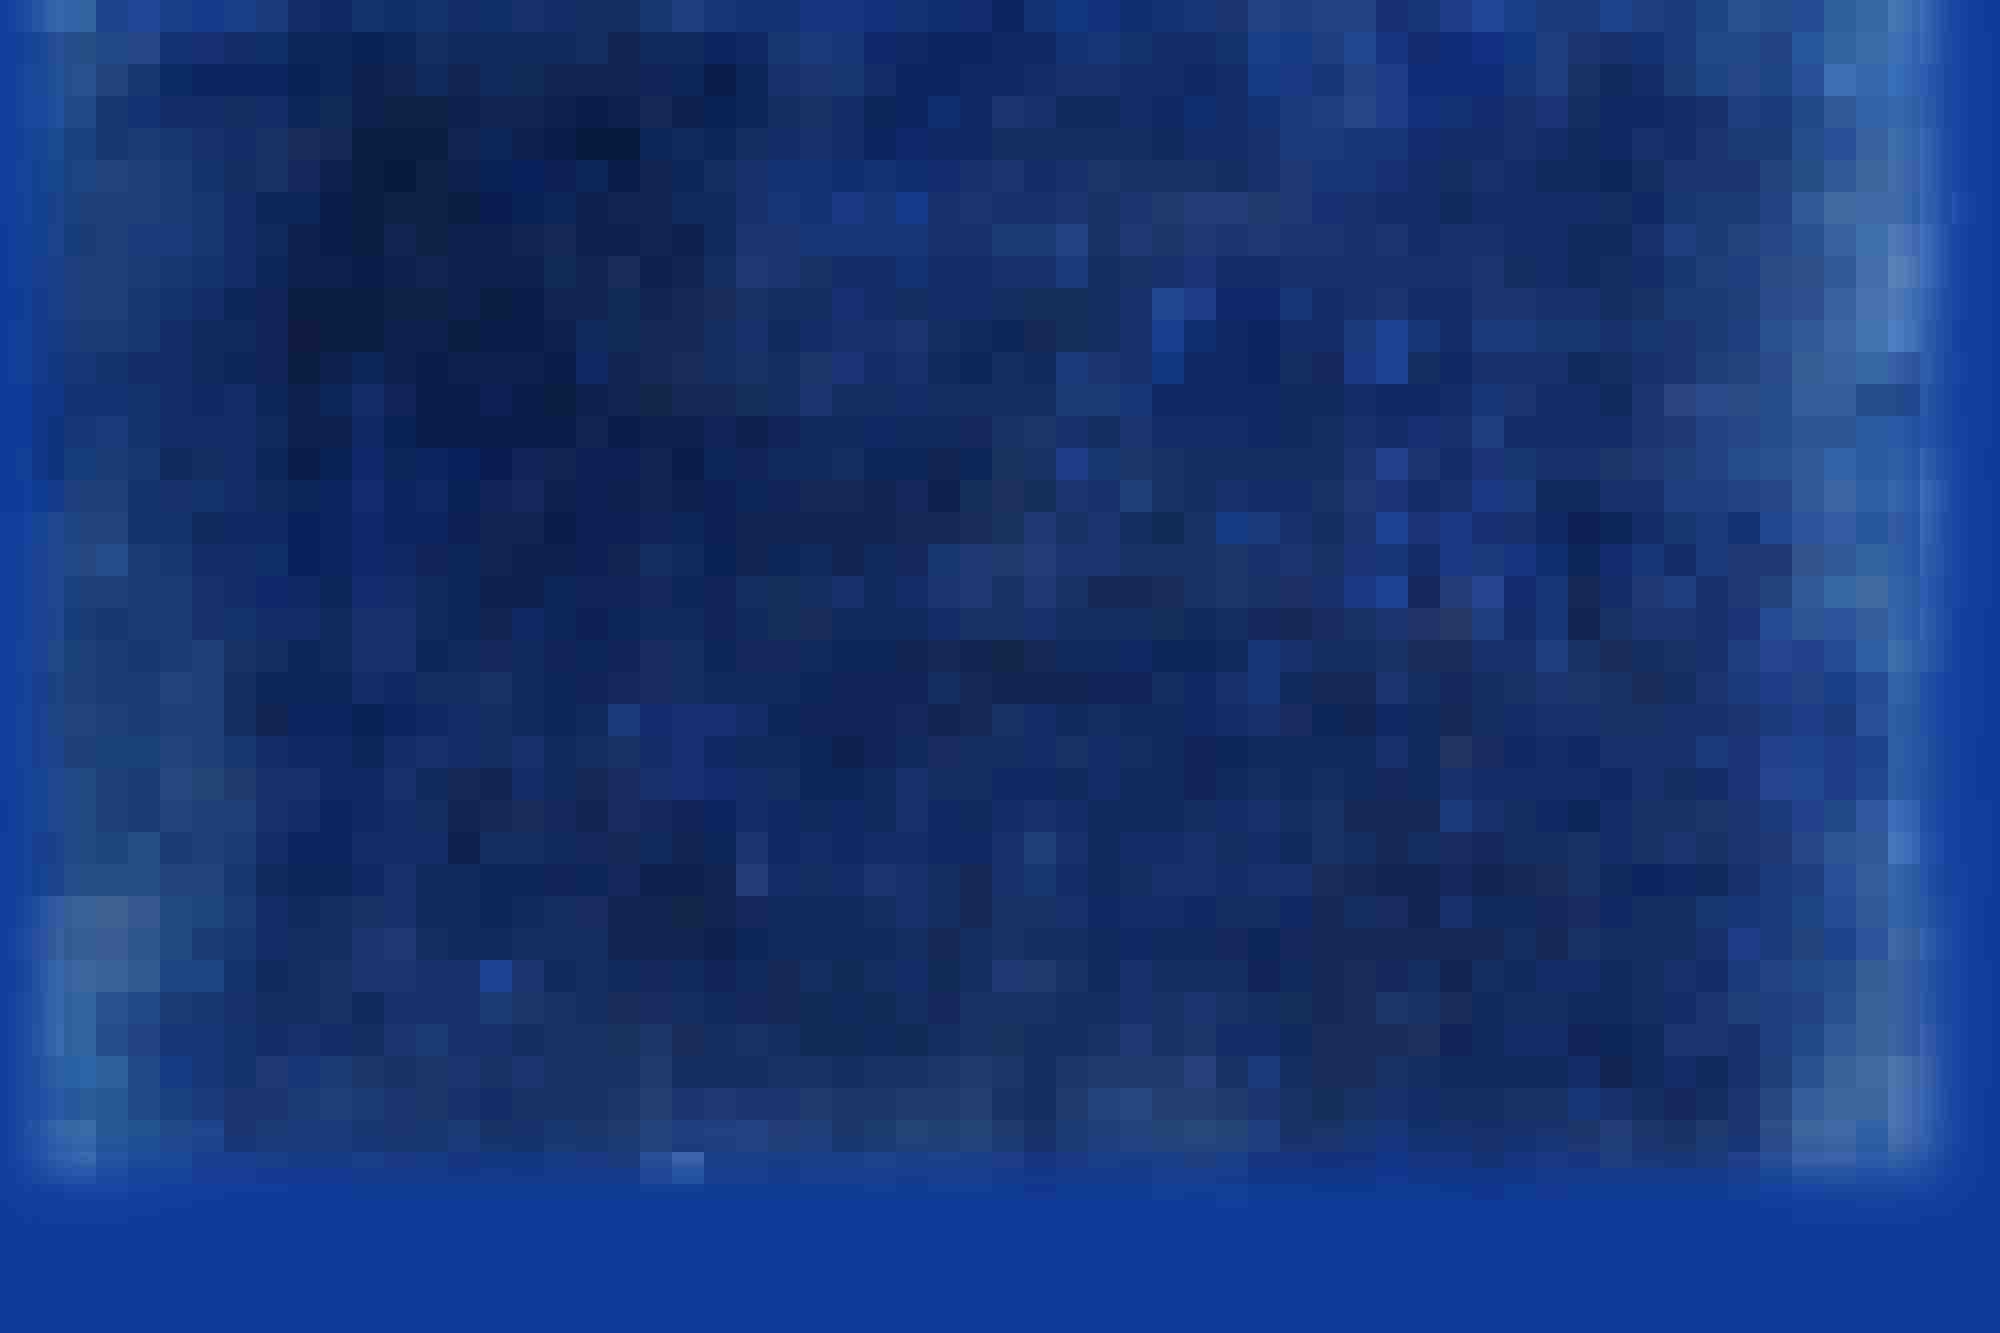
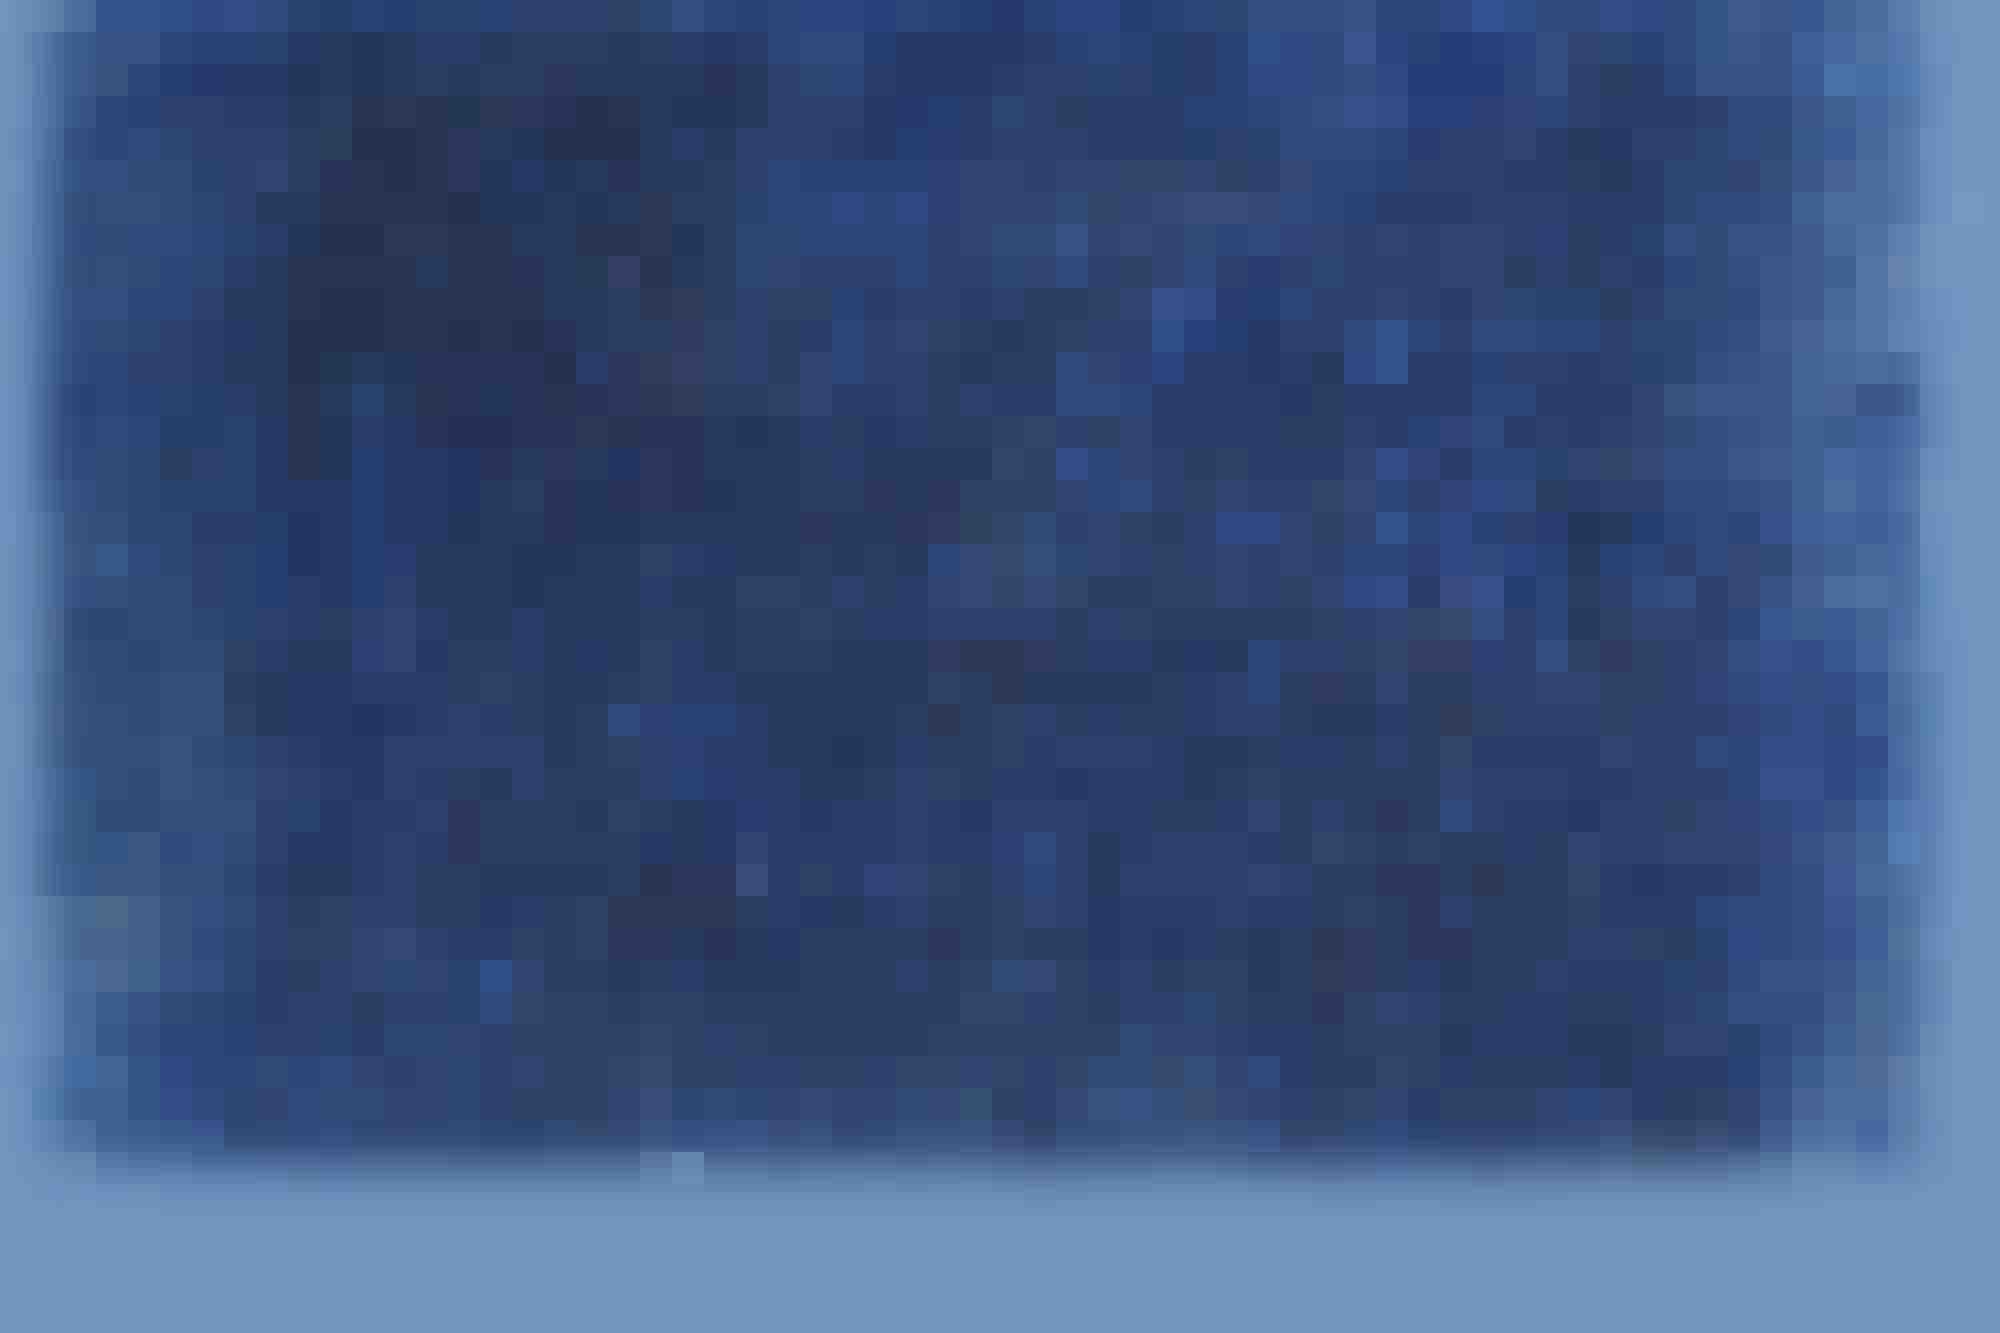
Titles for some maps pages, Lighter BG
RIP Nice Blue BG. May 24 2012 - August 8 2012

diff --git a/public/css/style.css b/public/css/style.css
@@ -6,7 +6,7 @@
 @import url(bootstrap.css);
 
 body {
-    background: #0e3a9d url(../images/static/bg.jpg) no-repeat fixed top center;
+    background: #7298c1 url(../images/static/bg.jpg) no-repeat fixed top center;
     color: #FFF;
     font-family: "Oswald","HelveticaNeue","Helvetica Neue",Helvetica,Arial,sans-serif;
     font-weight: 400;
@@ -1526,18 +1526,26 @@ form.xpadding p {
 
 #multiview ul li {
     display: inline-block;
+    vertical-align: top;
     padding: 10px;
-    margin: 5px 5px 10px;
+    margin: 13px 10px;
     background: #E6E6E6;
     border: 1px solid #D3D3D3;
     outline: 4px solid #F4F4F4;
+    -moz-box-shadow: 0 8px 6px 0px #000;
+    -webkit-box-shadow: 0 8px 6px 0px #000;
+    box-shadow: 0 8px 6px 0px #000;
+}
+
+#multiview p {
+    word-wrap: break-word;
 }
 
 /* Grid view */
 
 #multiview ul.grid li {
     min-height: 230px;
-    width: 200px;
+    width: 190px;
 }
 
 #multiview .grid .mv-image img {

diff --git a/application/views/maps/edit.blade.php b/application/views/maps/edit.blade.php
@@ -2,10 +2,9 @@
 
 @section("content")
 @include("maps.menu")
-{{ HTML::link_to_action("maps@view", "View", array($map->id, $map->slug)) }}
 <div id="content">
 <div class="titlebar clearfix">
-	<h2>Editing map {{ e($map->title) }}</h2>
+	<h2>Editing map <b>{{ e($map->title) }}</b></h2>
 </div>
 <div class="titlebar clearfix">
 	<h3>Map meta</h3>
@@ -19,7 +18,7 @@
 		{{ Form::field("text", "version", "Version", array(Input::old("version", $map->version)), array("error" => $errors->first("error"))) }}
 		{{ Form::field("text", "teamcount", "Team count", array(Input::old("teamcount", $map->teamcount)), array("error" => $errors->first("error"))) }}
 		{{ Form::field("text", "teamsize", "Recomended team size", array(Input::old("teamsize", $map->teamsize)), array("error" => $errors->first("teamsize"))) }}
-		{{ Form::actions(Form::submit("Submit", array("class" => "btn-primary"))) }}
+		{{ Form::actions(array(Form::submit("Save", array("class" => "btn-primary")), " ", HTML::link_to_action("maps@view", "Back", array($map->id), array("class" => "btn")))) }}
 	{{ Form::close() }}
 <div class="titlebar clearfix">
 	<h3>Download Links</h3>
@@ -71,7 +70,9 @@
 			</li>
 		@endforelse
 	</ul>
-	<h3>Upload new</h3>
+<div class="titlebar clearfix">
+	<h4>Upload new image</h4>
+</div>
 	{{ Form::open_for_files("maps/upload_image/".$map->id) }}
 		{{ Form::token() }}
 		{{ Form::field("file", "uploaded", "Image", array(array('class' => 'input-large')), array('error' => $errors->first('uploaded'))) }}

diff --git a/application/views/maps/menu.blade.php b/application/views/maps/menu.blade.php
@@ -9,9 +9,12 @@
         	<b class="caret"></b>
       		</a>
     		<ul class="dropdown-menu">
-      		<li>{{ HTML::link("?ctq", "Capture The Wool") }}</li>
-      		<li>{{ HTML::link("?rtw", "Race For The Wool") }}</li>
-      		<li>{{ HTML::link("?dtc", "Destroy the core") }}</li>
+    		<li>{{ HTML::link("maps/?rtw", "Race For Wool") }}</li>
+      		<li>{{ HTML::link("maps/?ctq", "Capture the Wool") }}</li>
+      		<li>{{ HTML::link("maps/?dtc", "Destroy the Core") }}</li>
+      		<li>{{ HTML::link("maps/?att", "Attack/Defence") }}</li>
+      		<li>{{ HTML::link("maps/?bed", "Bed Wars") }}</li>
+      		<li>{{ HTML::link("maps/?oth", "Other") }}</li>
     		</ul>
   		</li>
 		@if (Auth::check())
